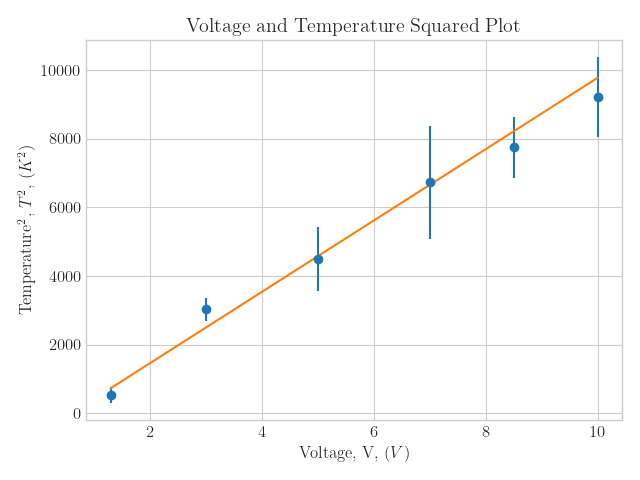
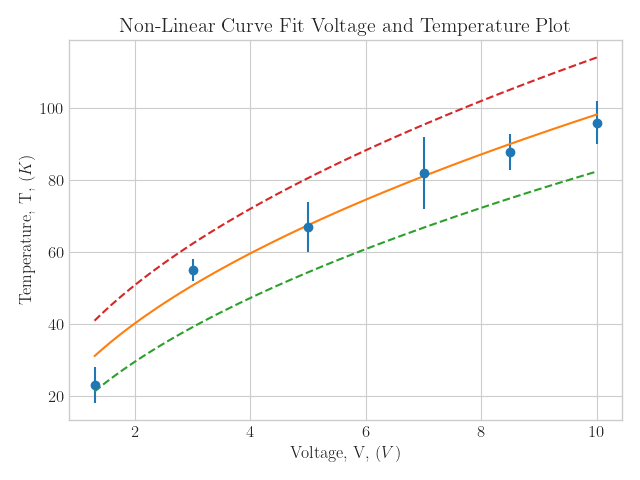
Added nonlinear regression

diff --git a/labtex/nonlinear.py b/labtex/nonlinear.py
@@ -1,0 +1,56 @@
+from typing import Any
+from labtex.measurement import Measurement
+from labtex.measurementlist import MeasurementList
+
+import matplotlib.pyplot as plt 
+from numpy import array, linspace
+from scipy.optimize import curve_fit
+
+plt.style.use('seaborn-whitegrid')
+plt.rcParams.update({
+    "text.usetex" : True,
+    "font.family" : "serif",
+    "font.size" : 12,
+    "figure.autolayout" : True,
+    "legend.framealpha": 1.0,
+    # resolution
+    # "figure.dpi" : 200,
+})
+
+class NonLinearRegression:
+    "Curve fit two MeasurementLists to a function."
+    def __init__(self,func : Any,x : MeasurementList, y : MeasurementList, init_params : list = None):
+        self.func = func
+        self.x = x
+        self.y = y
+
+        popt, pcov = curve_fit(func, self.x.values(), self.y.values(), sigma=self.y.uncertainties(), p0=init_params, absolute_sigma=True)
+        self.optimal_params = popt
+        self.param_uncertainties = [pcov[i][i]**0.5 for i in range(len(popt))]
+        # return [ (popt[i], pcov[i][i]**0.5) for i in range(len(popt)) ]
+
+
+    def __repr__(self):
+        return f"Optimal parameters: {self.optimal_params}\nUncertainties: {self.param_uncertainties}"
+
+    def plot(self, title: str = "", xnameandsymbol : str = "", ynameandsymbol: str = "", showline : bool = True, graphnumber : int = 0):
+        xvals = self.x.values()
+        yvals = self.y.values()
+        plt.figure(graphnumber)
+        plt.errorbar(xvals, yvals, yerr = self.y.uncertainties(),fmt='o')
+        if showline:
+            xspace = linspace(min(xvals), max(xvals), 100)
+            plt.plot(xspace, [
+                self.func(x, *self.optimal_params) for x in xspace
+                ])
+            plt.plot(xspace, [
+            self.func(x, *(self.optimal_params - self.param_uncertainties)) for x in xspace
+            ], '--')
+            plt.plot(xspace, [
+            self.func(x, *(self.optimal_params + self.param_uncertainties)) for x in xspace
+            ], '--')
+        
+        plt.title(title)
+        plt.xlabel(xnameandsymbol + f"{', ($ ' + str(self.x.unit) + '$)' if self.x.unit != '' else ''}")
+        plt.ylabel(ynameandsymbol + f"{', ($ ' + str(self.y.unit) + '$)' if self.y.unit != '' else ''}")
+        return plt

diff --git a/test/test_linear.py b/test/test_linear.py
@@ -8,10 +8,24 @@ testset = MeasurementList([1.3,3,5,7,8.5,10],[1,1,2,1,1,1],"")
 # Linear Regression
 eq = LinearRegression(voltages,temperatures)
 
+def func(x,A,B):
+    return A*x**0.5 + B
+
+sqeq = NonLinearRegression(func,voltages,temperatures)
+plt = sqeq.plot()
+# plt.show()
+
+
 class TestLinearRegression(unittest.TestCase):
     def test_repr(self):
         self.assertEqual(
             LinearRegression.__repr__(eq), "m = 7 ± 1 V^{-1} K\nc = 27 ± 7 K"
+        )
+
+class TestNonLinearRegression(unittest.TestCase):
+    def test_nlr_repr(self):
+        self.assertEqual(
+            sqeq.__repr__(), "Optimal parameters: [33.2759282  -6.89522347]\nUncertainties: [2.976448764153751, 6.462296108511657]"
         )
 
 # Template file creation is hard to test as it involves file creation, so this portion is tested manually.
@@ -38,6 +52,16 @@ doc.graph(
     xnameandsymbol = "Voltage, V",
     ynameandsymbol = "Temperature, T",
     caption = "Linear Regression of Voltage and Temperature"
+)
+
+doc.graph(
+    data = [voltages,temperatures],
+    title = "Non-Linear Curve Fit Voltage and Temperature Plot",
+    xnameandsymbol = "Voltage, V",
+    ynameandsymbol = "Temperature, T",
+    caption = "Non-Linear Regression of Voltage and Temperature",
+    nonlinear_func = func,
+    nonlinear_params = [1,1]
 )
 
 doc.graph(

diff --git a/labtex/document.py b/labtex/document.py
@@ -1,9 +1,11 @@
 from labtex.linear import LinearRegression
 from labtex.measurementlist import MeasurementList
 
-from typing import List, Union
+from typing import Any, List, Union
 
 import os
+
+from labtex.nonlinear import NonLinearRegression
 
 class Document:
     "A class for LaTeX template document creation with tables and graphs already inserted."
@@ -149,7 +151,7 @@ class Document:
 
     def graph(self, data : List[MeasurementList], title : str = "", xnameandsymbol : str = "Name, Symbol", \
         ynameandsymbol : str = "Name, Symbol", caption : str = "", width : float = 0.8, style : str = "default", \
-        showline : bool = True):
+        showline : bool = True, nonlinear_func : any = None, nonlinear_params : List[str] = []):
         "Add a graph to the LaTeX document."
         graph = Document.graphtemplates[style]
         self.graphnumber += 1
@@ -162,7 +164,7 @@ class Document:
         ):
             raise Exception("2 MeasurementLists needed for graphing.")
 
-        eq = LinearRegression(*data)
+        eq = NonLinearRegression(nonlinear_func,*data,nonlinear_params) if nonlinear_func else LinearRegression(*data)
         filename = f"graph{self.graphnumber}"
 
         if(Document.graphfolder != '.'): # assuming the graph folder is a subfolder

diff --git a/setup.py b/setup.py
@@ -15,9 +15,12 @@ setuptools.setup(
     long_description=README,
     long_description_content_type='text/markdown',
     url='https://github.com/CianLM/labtex',
+    project_urls={
+        "Documentation" : "https://www.cianlm.dev/labtex",
+    },
     author='CianLM',
     packages=['labtex'],
-    install_requires=['matplotlib','numpy'],
+    install_requires=['matplotlib','numpy','scipy'],
     classifiers=[
         "Programming Language :: Python :: 3",
         "Intended Audience :: Science/Research",

diff --git a/labtex/__init__.py b/labtex/__init__.py
@@ -1,7 +1,9 @@
+import imp
 from labtex.unit import Unit, U
 from labtex.measurement import Measurement, M
 from labtex.measurementlist import MeasurementList, ML
 from labtex.linear import LinearRegression
+from labtex.nonlinear import NonLinearRegression
 from labtex.document import Document
 
 
